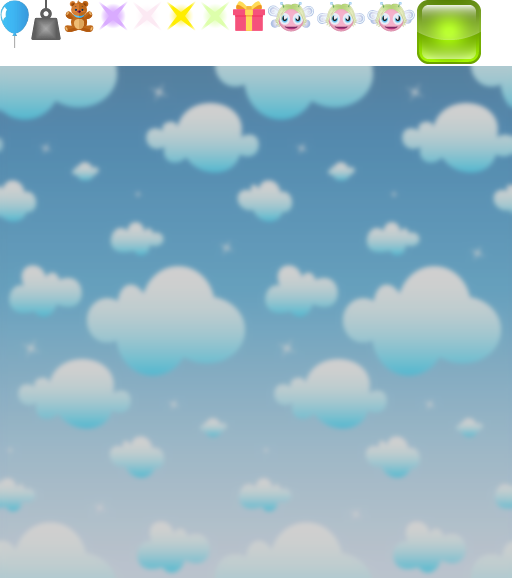
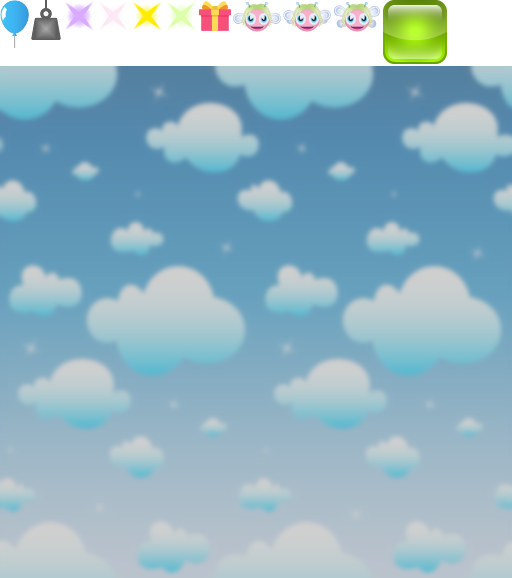
Remove teddy bears concept

Changed region(s): [[0.125, 0.0, 0.9375, 0.1246]]

diff --git a/src/game/World.js b/src/game/World.js
@@ -32,7 +32,6 @@ export default class World {
     this.pixieIsExploding = false;
     this.pixieHasCrashed = false;
     this.pixieHasReachedEnd = false;
-    this.numberOfTeddyBears = this.gameState.numberOfTeddyBears;
 
     this.sky = stage.getChildAt(0);
 
@@ -90,35 +89,24 @@ export default class World {
 
   createPickups() {
     for (let i = 0; i < NUM_PILLARS; i++) {
-      let pickup = new Sprite(this.textures['gift.png']);
-      this.pickups.addChild(pickup);
-      pickup.x = i * (384 + this.level * 64) + this.level * 64 + 720;
-      pickup.y = randomInt(50, RENDERER_HEIGHT - 50);
+      if (i % 2 === 0) {
+        let pickup = new Sprite(this.textures['gift.png']);
+        this.pickups.addChild(pickup);
+        pickup.x = i * (384 + this.level * 64) + this.level * 64 + 720;
+        pickup.y = randomInt(50, RENDERER_HEIGHT - 50);
+      }
     }
   }
 
   createInfoDisplay() {
-    let infoContainer = new Container();
-    infoContainer.x = 20;
-    infoContainer.y = 20;
-    this.container.addChild(infoContainer);
-
     this.livesContainer = new Container();
-    infoContainer.addChild(this.livesContainer);
+    this.container.addChild(this.livesContainer);
+
     for (let i = 0; i < this.gameState.numberOfLives; i++) {
       let life = new Sprite(this.textures['pixie-0.png']);
       life.x = i * (life.width + 10);
       this.livesContainer.addChild(life);
     }
-
-    let teddybearContainer = new Container();
-    teddybearContainer.y = 50;
-    infoContainer.addChild(teddybearContainer);
-    teddybearContainer.addChild(new Sprite(this.textures['teddybear.png']));
-    this.numberOfTeddyBearsText = new BitmapText(this.numberOfTeddyBears.toString(), {font: '30px pixie-font'});
-    this.numberOfTeddyBearsText.x = 40;
-    this.numberOfTeddyBearsText.y = 4;
-    teddybearContainer.addChild(this.numberOfTeddyBearsText);
   }
 
   createFinish() {
@@ -178,8 +166,6 @@ export default class World {
     this.pickups.x = 0;
     this.createPickups();
 
-    this.numberOfTeddyBearsText.text = this.numberOfTeddyBears.toString();
-
     this.finish.x = (NUM_PILLARS - 1) * (384 + this.level * 64) + 896;
 
     this.resetPixie();
@@ -226,23 +212,12 @@ export default class World {
   }
 
   createPickupActions() {
-    let pickUpActions = [
+    this.pickUpActions = [
       this.gainExtraLife.bind(this),
       this.pixie.gainInvincibility.bind(this.pixie),
       this.pixie.gainWeight.bind(this.pixie, new Sprite(this.textures['weight.png']), this.sounds.metal),
-      this.pixie.gainBalloon.bind(this.pixie, new Sprite(this.textures['balloon.png']), this.sounds.whoosh),
-      this.gainTeddyBear.bind(this)
+      this.pixie.gainBalloon.bind(this.pixie, new Sprite(this.textures['balloon.png']), this.sounds.whoosh)
     ];
-
-    let weights = [1, 1, 1, 1, 8];
-
-    this.pickUpActions = [];
-
-    for (let i = 0; i < weights.length; i++) {
-      for (let j = 0; j < weights[i]; j++) {
-        this.pickUpActions.push(pickUpActions[i]);
-      }
-    }
   }
 
   gainExtraLife() {
@@ -255,12 +230,6 @@ export default class World {
 
       this.sounds.powerup.play();
     }
-  }
-
-  gainTeddyBear() {
-    this.numberOfTeddyBears++;
-    this.numberOfTeddyBearsText.text = this.numberOfTeddyBears.toString();
-    this.sounds.pickup.play();
   }
 
   update(dt) {
@@ -344,13 +313,7 @@ export default class World {
     for (let pickup of this.pickups.children) {
       if (hitTestRectangle(this.pixie, pickup, true)) {
         this.pickups.removeChild(pickup);
-
-        if (this.pixie.effectTimer <= 0) {
-          this.pickUpActions[randomInt(0, this.pickUpActions.length - 1)]();
-        }
-        else {
-          this.gainTeddyBear();
-        }
+        this.pickUpActions[randomInt(0, this.pickUpActions.length - 1)]();
       }
     }
 

diff --git a/src/states/GameState.js b/src/states/GameState.js
@@ -13,7 +13,6 @@ export default class GameState extends State {
 
     this.currentLevel = 0;
     this.numberOfLives = 3;
-    this.numberOfTeddyBears = 0;
 
     this.keyControllers.push(new KeyBinder(27, null, () => {
       this.stateStack.push(new PauseState(this.stage, this.stateStack, this.textures));
@@ -37,7 +36,6 @@ export default class GameState extends State {
 
     if (this.world.pixieHasCrashed) {
       if (this.numberOfLives > 1) {
-        this.world.numberOfTeddyBears = this.numberOfTeddyBears;
         this.world.resetScene();
         this.world.resetEmitter();
         this.world.decreaseNumberOfLives();
@@ -58,7 +56,6 @@ export default class GameState extends State {
 
       if (this.currentLevel <= NUMBER_OF_LEVELS) {
         this.world.resetScene();
-        this.numberOfTeddyBears = this.world.numberOfTeddyBears;
         this.world.pixieHasReachedEnd = false;
         this.stateStack.push(new HintState(this.stage, this.stateStack, this, `Level ${this.currentLevel+1}`));
       } else {

diff --git a/src/game/Pixie.js b/src/game/Pixie.js
@@ -19,7 +19,7 @@ export default class Pixie extends Entity {
     this.addChild(sprite);
 
     this.addedGravity = 0.00025;
-    this.effectTimer = 10000;
+    this.effectTimer = 8000;
 
     sound.play();
   }
@@ -30,16 +30,14 @@ export default class Pixie extends Entity {
     this.addChild(sprite);
 
     this.addedGravity = -0.00015;
-    this.effectTimer = 10000;
+    this.effectTimer = 8000;
 
     sound.play();
   }
 
   gainInvincibility() {
     this.invincible = true;
-    this.effectTimer = 10000;
-
-    // sound.play();
+    this.effectTimer = 8000;
   }
 
   resetProperties() {

diff --git a/src/states/HowToState.js b/src/states/HowToState.js
@@ -19,7 +19,7 @@ export default class HowToState extends State {
   buildScene() {
     const data = [
       {
-        text: 'Help Pixie find teddy bears among the scattered presents!',
+        text: 'Help Pixie get home!',
         sprite: null,
         yOffset: 60
       },
@@ -34,7 +34,7 @@ export default class HowToState extends State {
         yOffset: 60
       },
       {
-        text: 'Pick up presents to get teddy bears or surprises',
+        text: 'Pick up presents to get surprises',
         sprite: new Sprite(this.textures['gift.png']),
         yOffset: 60
       },

diff --git a/src/const/aliases.js b/src/const/aliases.js
@@ -8,6 +8,4 @@ export const resources = PIXI.loader.resources;
 export const Sprite = PIXI.Sprite;
 export const TilingSprite = PIXI.extras.TilingSprite;
 export const AnimatedSprite = PIXI.extras.AnimatedSprite;
-export const Text = PIXI.Text;
-export const TextStyle = PIXI.TextStyle;
 export const BitmapText = PIXI.extras.BitmapText;
